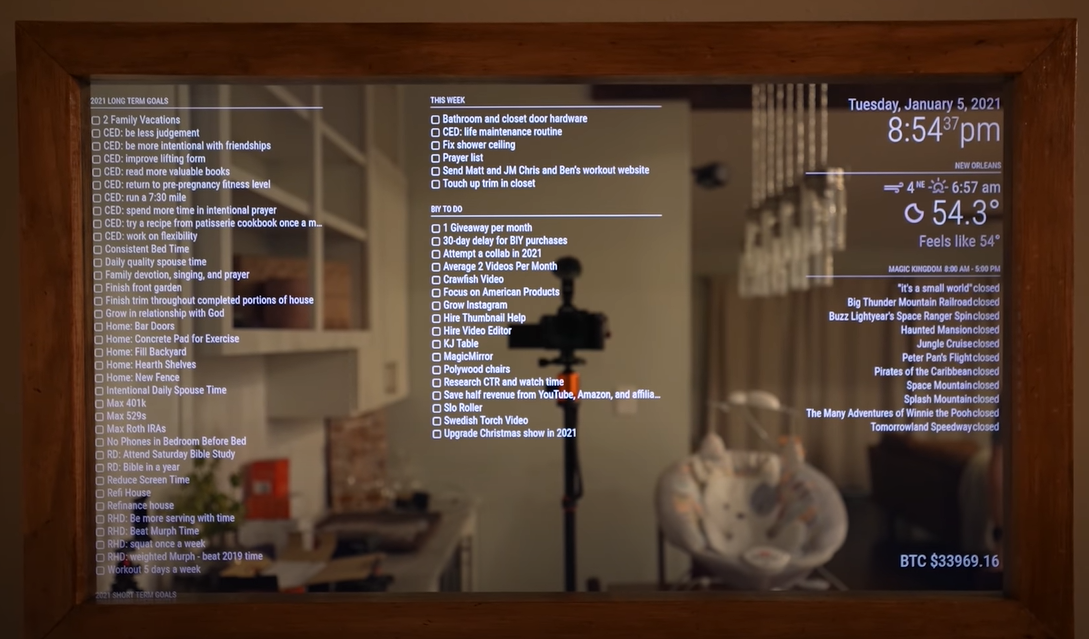
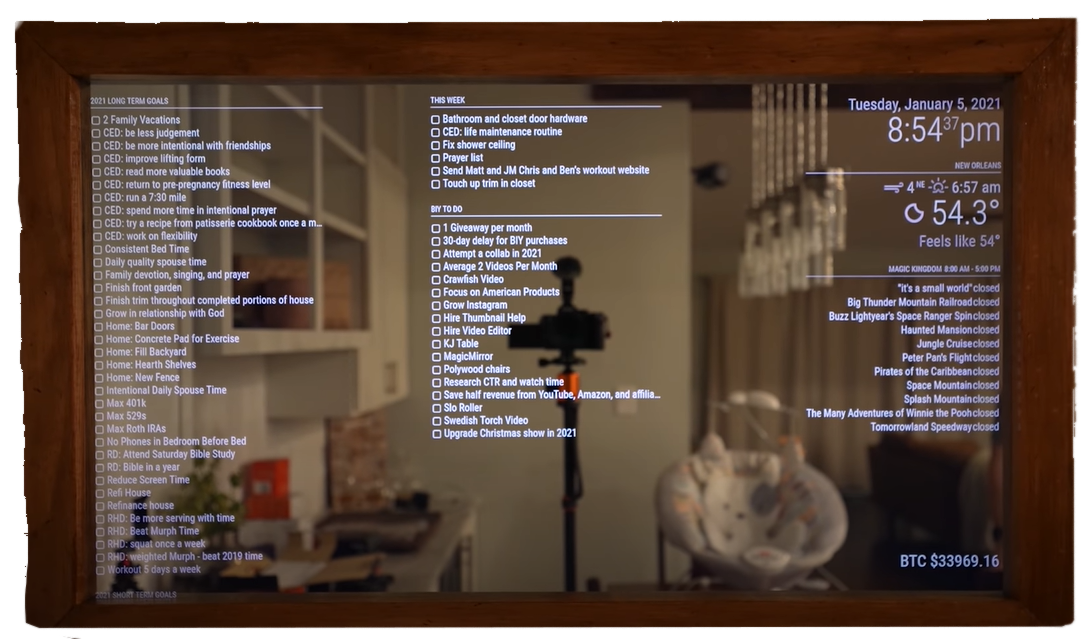
add images to main

Changed region(s): [[0.0, 0.0, 1.0, 1.0]]

diff --git a/client/src/components/main/main.jsx b/client/src/components/main/main.jsx
@@ -5,7 +5,7 @@ const Main = () => {
   return (
     <div className={styles.main}>
       <h1>Main</h1>
-      <img src={process.env.PUBLIC_URL + './images/custom_mac1.PNG'} alt="" width="500px"></img>
+      <img src={process.env.PUBLIC_URL + './images/smart_mirror2.PNG'} alt="" width="600px"></img>
     </div>
   );
 };

diff --git a/client/src/components/main/main.module.css b/client/src/components/main/main.module.css
@@ -1,5 +1,4 @@
 .main {
-  background: red;
   display: flex;
   justify-content: center;
   align-items: center;

diff --git a/client/README.md b/client/README.md
@@ -1,0 +1,3 @@
+image source: https://www.cleanpng.com/
+
+https://www.klipartz.com/en/sticker-png-rklfi
